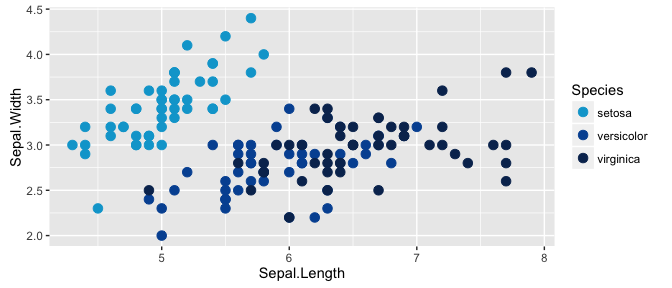
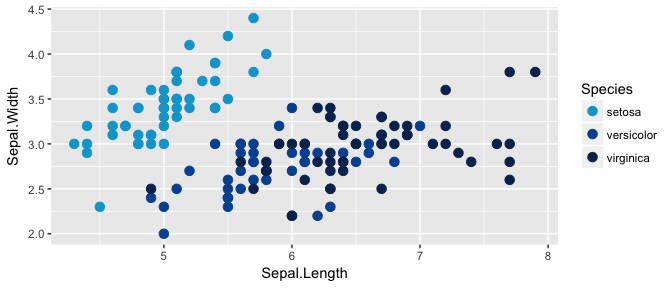
Add new MCRI branding palettes
Also run checks

diff --git a/README.md b/README.md
@@ -24,15 +24,48 @@ library("mcriPalettes")
 # See all palettes
 pal.names <- names(mcri.palettes)
 pal.names
-##  [1] "themes"        "themesMid"     "themesLite"    "themesPaired" 
-##  [5] "themesTripled" "blues"         "bluesMid"      "bluesLite"    
-##  [9] "bluesPaired"   "bluesTripled"  "logo"
+##  [1] "symbol"        "greys"         "themes"        "themesMid"    
+##  [5] "themesLite"    "themesPaired"  "themesTripled" "blues"        
+##  [9] "bluesMid"      "bluesLite"     "bluesPaired"   "bluesTripled" 
+## [13] "logo"
 
 library("ggplot2")
 
 gg <- ggplot(iris, aes(Sepal.Length, Sepal.Width, color = Species)) + 
       geom_point(size = 3)
 ```
+
+## Symbol
+
+
+```r
+mcriPalette("symbol")
+```
+
+![](figure/symbol-1.png)<!-- -->
+
+```r
+gg + scale_color_manual(values = mcriPalette("symbol"))
+```
+
+![](figure/symbol-2.png)<!-- -->
+
+## Greys
+
+
+```r
+mcriPalette("greys")
+```
+
+![](figure/greys-1.png)<!-- -->
+
+```r
+gg + scale_color_manual(values = mcriPalette("greys"))
+```
+
+![](figure/greys-2.png)<!-- -->
+
+# Old palettes
 
 ## Themes
 
